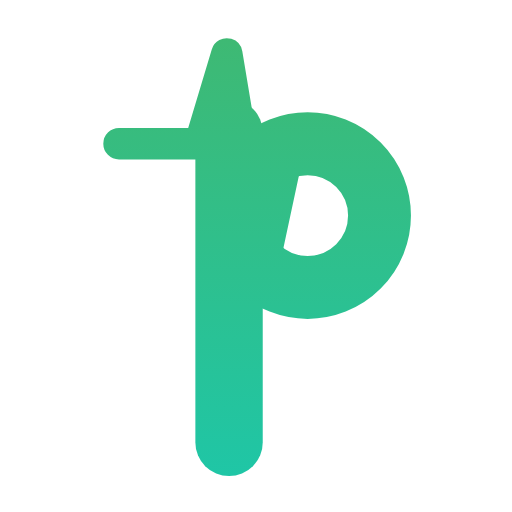
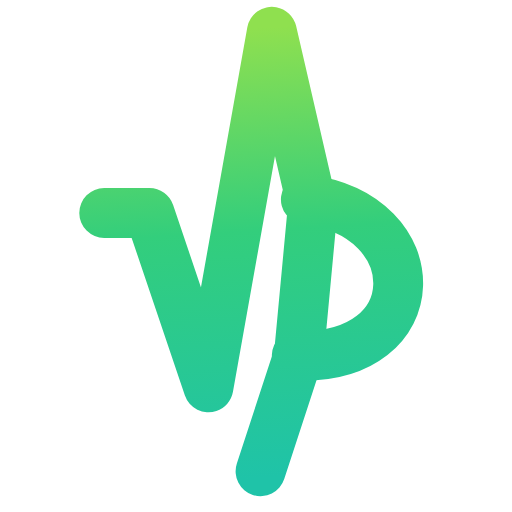
Retrace pulse-p monogram; wordmark PNGs in nav
The monogram is a single heartbeat ribbon — flat shelf, V-dip, tall
spike, then the downstroke curls into the bowl of a "p" with a
descender — in the brand green→teal gradient. This replaces the earlier
mis-traced stem+bowl mark.

- favicon.svg + BrandMark.vue: new pulse-p geometry (transparent SVG,
  reads on light & dark).
- Regenerated icon set from the mark: apple-touch (on the light plate),
  android 192/512, favicon 16/32, favicon.ico.
- AppNav: drop the monogram tile; use the theme-swapped wordmark PNGs
  (dark art on light theme, light art on dark).

Changed region(s): [[0.1562, 0.0, 0.8438, 0.9688]]

diff --git a/src/components/ui/BrandMark.vue b/src/components/ui/BrandMark.vue
@@ -1,9 +1,9 @@
 <script setup lang="ts">
 import { useId } from 'vue'
 
-// BitPulse monogram: the pulse-shaped "p" from the wordmark — a stem+bowl "p"
-// with a heartbeat running through it, in the brand green→teal gradient.
-// Height-driven; width follows the glyph's aspect.
+// BitPulse monogram: a single heartbeat ribbon — flat shelf, V-dip, tall spike,
+// then the right side curls into the bowl of a "p" with a descender. Green→teal
+// gradient. Height-driven; width follows the glyph's aspect.
 withDefaults(defineProps<{ size?: number }>(), { size: 30 })
 
 // Unique gradient id so multiple instances (nav + footer) don't collide.
@@ -13,30 +13,30 @@ const gid = `bp-${useId()}`
 <template>
   <svg
     :height="size"
-    viewBox="0 0 100 130"
+    viewBox="-4 -6 154 226"
     fill="none"
     xmlns="http://www.w3.org/2000/svg"
     aria-hidden="true"
     :style="{ width: 'auto' }"
   >
     <defs>
-      <linearGradient :id="gid" x1="0" y1="0" x2="0" y2="1">
-        <stop offset="0" stop-color="#41B86F" />
-        <stop offset="1" stop-color="#1FC6A6" />
+      <linearGradient :id="gid" x1="84" y1="6" x2="96" y2="204" gradientUnits="userSpaceOnUse">
+        <stop offset="0" stop-color="#8FE04F" />
+        <stop offset="0.45" stop-color="#33CE7C" />
+        <stop offset="1" stop-color="#1FC3A8" />
       </linearGradient>
     </defs>
-    <!-- stem + descender -->
-    <rect x="39" y="40" width="15" height="84" rx="7.5" :fill="`url(#${gid})`" />
-    <!-- bowl -->
-    <circle cx="64" cy="66" r="16" fill="none" :stroke="`url(#${gid})`" stroke-width="14" />
-    <!-- heartbeat through the stem -->
-    <path
-      d="M22 50 H40 L46 30 L54 78 L60 50 H70"
+    <g
       fill="none"
       :stroke="`url(#${gid})`"
-      stroke-width="7"
+      stroke-width="22"
       stroke-linecap="round"
       stroke-linejoin="round"
-    />
+    >
+      <!-- shelf → V-dip → spike → stem → descender -->
+      <path d="M10 88 L30 88 L56 165 L84 8 L102 86 L96 150 L79 202" />
+      <!-- bowl of the p -->
+      <path d="M99 82 C154 89 154 153 95 151" />
+    </g>
   </svg>
 </template>

diff --git a/src/components/layout/AppNav.vue b/src/components/layout/AppNav.vue
@@ -2,7 +2,6 @@
 import { ref } from 'vue'
 import { RouterLink, useRoute } from 'vue-router'
 import { navLinks } from '@/data/site'
-import BrandMark from '@/components/ui/BrandMark.vue'
 import ThemeToggle from './ThemeToggle.vue'
 
 const open = ref(false)
@@ -18,12 +17,10 @@ function isActive(to: string) {
 <template>
   <header class="sticky top-0 z-50 border-b border-line bg-plate-0/85 backdrop-blur-md">
     <div class="mx-auto flex h-[70px] max-w-[1120px] items-center gap-5 px-6">
-      <!-- brand -->
-      <RouterLink to="/" class="flex items-center gap-3 text-ink" @click="open = false">
-        <BrandMark :size="34" />
-        <span class="font-display text-[1.34rem] font-extrabold tracking-tight">
-          Bit<span class="text-accent-deep">Pulse</span>
-        </span>
+      <!-- brand: theme-swapped logo (dark art on light theme, light art on dark) -->
+      <RouterLink to="/" class="brand" aria-label="BitPulse home" @click="open = false">
+        <img src="/bitpulse_logo-dark.png" alt="BitPulse" class="brand-logo brand-logo--light" />
+        <img src="/bitpulse_logo-light.png" alt="" aria-hidden="true" class="brand-logo brand-logo--dark" />
       </RouterLink>
 
       <!-- desktop links -->
@@ -84,6 +81,28 @@ function isActive(to: string) {
 </template>
 
 <style scoped>
+.brand {
+  display: inline-flex;
+  align-items: center;
+}
+.brand-logo {
+  display: block;
+  height: 44px;
+  width: 150px;
+  object-fit: cover;
+  object-position: center;
+}
+/* theme swap via the data-theme attribute set on <html> */
+.brand-logo--dark {
+  display: none;
+}
+:global([data-theme='dark']) .brand-logo--light {
+  display: none;
+}
+:global([data-theme='dark']) .brand-logo--dark {
+  display: block;
+}
+
 .navlink {
   position: relative;
   padding: 5px 0;
